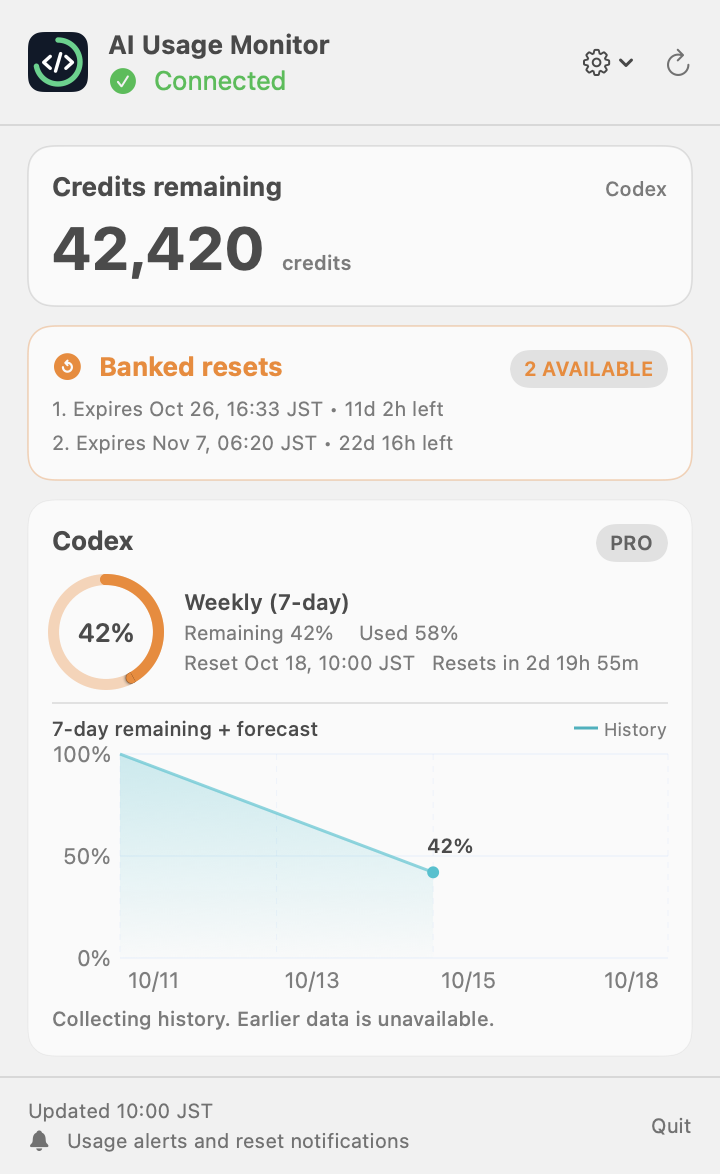
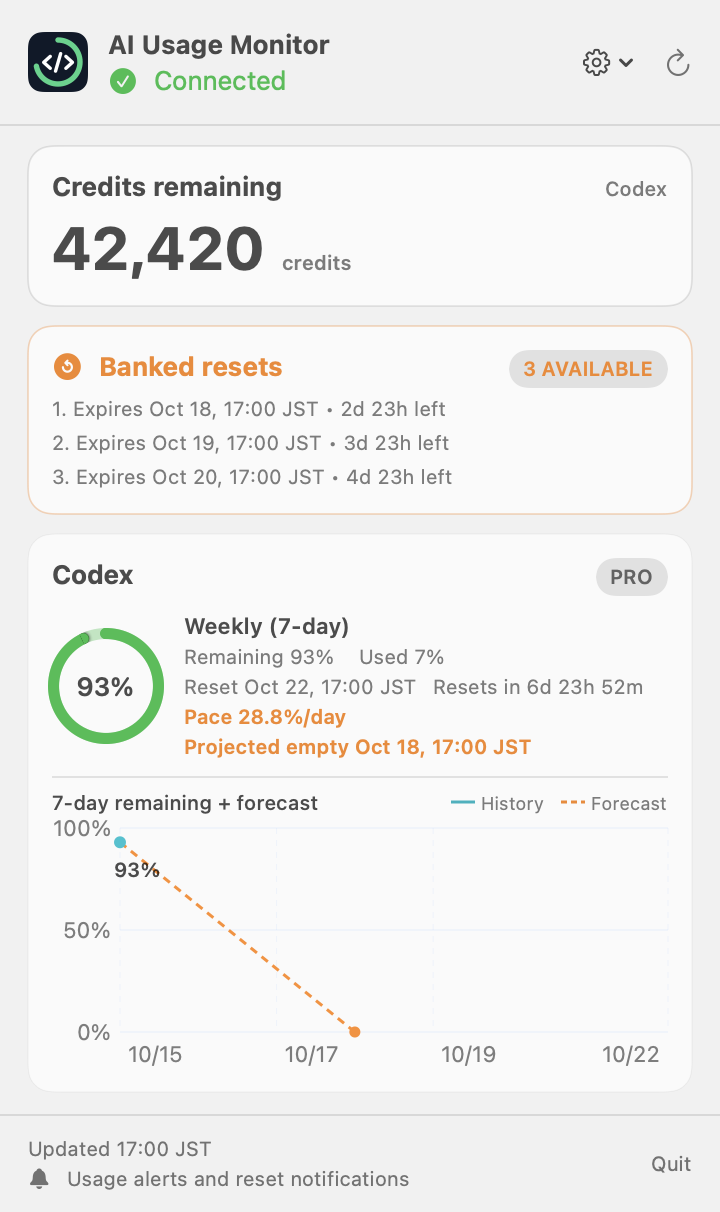
Restore banked resets and fit menu cards to available screen (#2)

diff --git a/tests/MenuPanelLayoutChecks.swift b/tests/MenuPanelLayoutChecks.swift
@@ -1,0 +1,135 @@
+import AppKit
+import Combine
+import CodexUsageCore
+import CodexUsageShared
+import SwiftUI
+
+@MainActor final class UsageViewModel: ObservableObject {
+    enum ConnectionState: Equatable { case idle, loading, connected, failed(String) }
+    @Published var snapshot: UsageSnapshot?
+    @Published var state: ConnectionState = .connected
+    @Published var notificationsEnabled: Bool? = true
+    @Published var paceEstimates: [String: UsagePaceEstimate] = [:]
+    @Published var weeklyHistories: [String: [UsageHistorySample]] = [:]
+    var isRefreshing: Bool { false }
+    func refresh() {}
+    func publishCurrentSnapshot() {}
+}
+enum UsagePaceTracker {
+    static func key(limitID: String, window: UsageWindow) -> String {
+        "\(limitID)|\(window.source)|\(window.windowDurationMins ?? -1)"
+    }
+}
+
+@main @MainActor struct MenuPanelLayoutChecks {
+    static func main() throws {
+        _ = NSApplication.shared
+        let output = CommandLine.arguments.count > 1
+            ? URL(fileURLWithPath: CommandLine.arguments[1], isDirectory: true) : nil
+        if let output { try FileManager.default.createDirectory(at: output, withIntermediateDirectories: true) }
+        for (name, scheme, appearance) in [("light", ColorScheme.light, NSAppearance.Name.aqua), ("dark", .dark, .darkAqua)] {
+            NSApp.appearance = NSAppearance(named: appearance)
+            let model = UsageViewModel()
+            update(model, count: 3, extra: false)
+            let host = NSHostingView(rootView: UsagePanel(model: model, maximumHeightOverride: 900)
+                .environment(\.colorScheme, scheme).environment(\.locale, Locale(identifier: "en_US")))
+            let window = NSWindow(contentRect: NSRect(x: 100, y: 100, width: 360, height: 900),
+                styleMask: [.borderless], backing: .buffered, defer: false)
+            window.isReleasedWhenClosed = false
+            window.appearance = NSAppearance(named: appearance)
+            window.contentView = host
+            host.frame = NSRect(x: 0, y: 0, width: 360, height: 900)
+            settle(host)
+            verify(host, window: window, fits: true, label: "three-expiries-credit-pace-forecast-\(name)")
+            if let output { try save(host, to: output.appendingPathComponent("menu-\(name).png")) }
+            update(model, count: 0, extra: false)
+            settle(host)
+            verify(host, window: window, fits: true, label: "zero-reset-shrink-\(name)")
+            update(model, count: 3, extra: false)
+            model.state = .failed("Synthetic connection failure")
+            settle(host)
+            verify(host, window: window, fits: true, label: "stale-grow-\(name)")
+            model.state = .connected
+            // A genuinely constrained display must retain the content and allow scrolling.
+            host.rootView = UsagePanel(model: model, maximumHeightOverride: 420)
+                .environment(\.colorScheme, scheme).environment(\.locale, Locale(identifier: "en_US"))
+            settle(host)
+            verify(host, window: window, fits: false, label: "short-display-\(name)")
+            // Returning to a large display must not keep an old height or scroll offset.
+            host.rootView = UsagePanel(model: model, maximumHeightOverride: 900)
+                .environment(\.colorScheme, scheme).environment(\.locale, Locale(identifier: "en_US"))
+            settle(host)
+            window.orderOut(nil)
+            update(model, count: 2, extra: false)
+            settle(host)
+            window.alphaValue = 0
+            window.orderFront(nil)
+            settle(host)
+            verify(host, window: window, fits: true, label: "hidden-grow-and-reopen-\(name)")
+            update(model, count: 3, extra: true)
+            settle(host)
+            verify(host, window: window, fits: false, label: "many-limits-overflow-\(name)")
+            window.close()
+        }
+        print("Native menu layout: 12 real-content fit/overflow/grow/shrink/reopen cases PASS")
+    }
+
+    static func update(_ model: UsageViewModel, count: Int, extra: Bool) {
+        let now = Date(timeIntervalSince1970: floor(Date().timeIntervalSince1970 / 3600) * 3600)
+        let reset = now.addingTimeInterval(7 * 86400)
+        let window = UsageWindow(source: "primary", label: "Weekly (7-day)", usedPercent: 7,
+            remainingPercent: 93, windowDurationMins: 10080, resetsAt: reset)
+        var limits = [UsageLimit(limitID: "codex", displayName: "Codex", planType: "pro",
+            rateLimitReachedType: nil, spendControlReached: false, windows: [window],
+            creditBalance: .amount(42420))]
+        if extra {
+            limits += (1...5).map { UsageLimit(limitID: "synthetic-\($0)", displayName: "Additional limit \($0)",
+                planType: "pro", rateLimitReachedType: nil, spendControlReached: false, windows: [window]) }
+        }
+        let credits = (0..<count).map { UsageResetCredit(grantedAt: now.addingTimeInterval(-86400),
+            expiresAt: now.addingTimeInterval(Double($0 + 3) * 86400), status: "available",
+            resetType: "codexRateLimits", title: nil, description: nil) }
+        model.snapshot = UsageSnapshot(limits: limits,
+            resetCredits: UsageResetCreditsSummary(availableCount: count, credits: credits), updatedAt: now)
+        let key = UsagePaceTracker.key(limitID: "codex", window: window)
+        model.paceEstimates = [key: UsagePaceEstimate(exhaustionDate: now.addingTimeInterval(3 * 86400),
+            usedPercentPerHour: 1.2, recentUsedPercentPerHour: 1.2, longTermUsedPercentPerHour: 1,
+            confidence: .medium)]
+        model.weeklyHistories = [key: [UsageHistorySample(observedAt: now.addingTimeInterval(-180),
+            remainingPercent: 94, resetsAt: reset), UsageHistorySample(observedAt: now,
+            remainingPercent: 93, resetsAt: reset)]]
+    }
+
+    static func settle<V: View>(_ host: NSHostingView<V>) {
+        for _ in 0..<16 {
+            host.layoutSubtreeIfNeeded()
+            RunLoop.main.run(until: Date().addingTimeInterval(0.025))
+        }
+    }
+    static func scrollViews(in view: NSView) -> [NSScrollView] {
+        (view as? NSScrollView).map { [$0] } ?? view.subviews.flatMap { scrollViews(in: $0) }
+    }
+    static func verify<V: View>(_ host: NSHostingView<V>, window: NSWindow, fits: Bool, label: String) {
+        let scrolls = scrollViews(in: host)
+        precondition(scrolls.count == 1, "\(label): expected one actual NSScrollView")
+        let scroll = scrolls[0]
+        let document = scroll.documentView!.frame.height
+        let viewport = scroll.contentView.bounds.height
+        precondition(abs(window.contentLayoutRect.height - host.bounds.height) <= 1,
+            "\(label): native window and SwiftUI panel disagree")
+        if fits {
+            precondition(document <= viewport + 1,
+                "\(label): unnecessary scrolling (document \(document), viewport \(viewport))")
+            precondition(abs(scroll.contentView.bounds.minY) <= 1,
+                "\(label): content remains scrolled after fitting")
+        } else {
+            precondition(document > viewport + 1, "\(label): tall content was clipped instead of scrollable")
+        }
+        print("\(label): \(fits ? "FIT" : "BOUNDED_SCROLL") window=\(host.bounds.height) document=\(document) viewport=\(viewport)")
+    }
+    static func save<V: View>(_ host: NSHostingView<V>, to url: URL) throws {
+        let bitmap = host.bitmapImageRepForCachingDisplay(in: host.bounds)!
+        host.cacheDisplay(in: host.bounds, to: bitmap)
+        try bitmap.representation(using: .png, properties: [:])!.write(to: url)
+    }
+}

diff --git a/Sources/CodexUsageMonitorApp/UsagePanel.swift b/Sources/CodexUsageMonitorApp/UsagePanel.swift
@@ -7,31 +7,48 @@ struct UsagePanel: View {
     @ObservedObject var model: UsageViewModel
     @AppStorage("appearanceMode") private var appearanceRawValue = AppearanceMode.system.rawValue
     @State private var measuredContentHeight: CGFloat = 0
+    @State private var measuredChromeHeight: CGFloat = 0
+    @State private var availableScreenHeight: CGFloat = 0
+    // A finite viewport override is used only by the native layout regression harness.
+    var maximumHeightOverride: CGFloat? = nil
 
     private let minimumPanelHeight: CGFloat = 220
     private let panelChromeHeight: CGFloat = 112
 
     private var maximumPanelHeight: CGFloat {
-        let availableHeight = NSScreen.main?.visibleFrame.height ?? 620
-        return min(680, max(420, availableHeight - 16))
+        if let maximumHeightOverride { return maximumHeightOverride }
+        let availableHeight = availableScreenHeight > 0
+            ? availableScreenHeight : (NSScreen.main?.visibleFrame.height ?? 620)
+        return max(minimumPanelHeight, floor(availableHeight - 16))
     }
 
     var body: some View {
         VStack(spacing: 0) {
             header
-            Divider()
+                .fixedSize(horizontal: false, vertical: true)
+                .background(chromeMeasurement)
+            Divider().frame(height: 1)
             content
-            Divider()
+            Divider().frame(height: 1)
             footer
+                .fixedSize(horizontal: false, vertical: true)
+                .background(chromeMeasurement)
         }
         .frame(width: 360, height: panelHeight)
         .background(.regularMaterial)
-        .background(PanelWindowSize(height: panelHeight))
+        .background(PanelWindowSize(height: panelHeight) { height in
+            guard abs(height - availableScreenHeight) > 0.5 else { return }
+            availableScreenHeight = height
+        })
         .background(PanelWindowAppearance(mode: appearanceMode))
         .preferredColorScheme(appearanceMode.colorScheme)
         .onPreferenceChange(ContentHeightPreferenceKey.self) { height in
             guard height > 0, abs(height - measuredContentHeight) > 0.5 else { return }
             measuredContentHeight = height
+        }
+        .onPreferenceChange(PanelChromeHeightPreferenceKey.self) { height in
+            guard height > 0, abs(height - measuredChromeHeight) > 0.5 else { return }
+            measuredChromeHeight = height
         }
         .onChange(of: appearanceRawValue) { _ in
             model.publishCurrentSnapshot()
@@ -95,7 +112,7 @@ struct UsagePanel: View {
     private var content: some View {
         if let snapshot = model.snapshot {
             ScrollView {
-                LazyVStack(spacing: 10) {
+                VStack(spacing: 10) {
                     CreditsBalanceCard(balance: snapshot.creditBalance, isStale: hasRefreshFailure)
                     ResetCreditsCard(summary: snapshot.resetCredits)
                     ForEach(Array(snapshot.limits.prefix(2))) { limit in
@@ -110,6 +127,7 @@ struct UsagePanel: View {
                         ErrorBanner(message: message)
                     }
                 }
+                .fixedSize(horizontal: false, vertical: true)
                 .padding(.horizontal, 14)
                 .padding(.vertical, 10)
                 .background {
@@ -121,6 +139,7 @@ struct UsagePanel: View {
                     }
                 }
             }
+            .scrollDisabled(measuredContentHeight > 0 && desiredPanelHeight <= maximumPanelHeight)
         } else if case .failed(let message) = model.state {
             VStack(spacing: 12) {
                 Image(systemName: "exclamationmark.triangle")
@@ -147,14 +166,20 @@ struct UsagePanel: View {
         return false
     }
 
+    private var chromeMeasurement: some View {
+        GeometryReader { proxy in
+            Color.clear.preference(key: PanelChromeHeightPreferenceKey.self, value: proxy.size.height)
+        }
+    }
+
+    private var desiredPanelHeight: CGFloat {
+        let contentHeight = measuredContentHeight > 0 ? measuredContentHeight : estimatedContentHeight
+        let chromeHeight = measuredChromeHeight > 0 ? measuredChromeHeight : panelChromeHeight
+        return ceil(max(minimumPanelHeight, chromeHeight + 2 + contentHeight))
+    }
+
     private var panelHeight: CGFloat {
-        let contentHeight = measuredContentHeight > 0
-            ? measuredContentHeight
-            : estimatedContentHeight
-        return min(
-            maximumPanelHeight,
-            max(minimumPanelHeight, panelChromeHeight + contentHeight)
-        )
+        min(maximumPanelHeight, desiredPanelHeight)
     }
 
     private var estimatedContentHeight: CGFloat {
@@ -256,19 +281,24 @@ private final class PanelAppearanceView: NSView {
 /// Keep the hosted window's content rect equal to the actual SwiftUI panel height.
 private struct PanelWindowSize: NSViewRepresentable {
     let height: CGFloat
+    var screenHeightChanged: ((CGFloat) -> Void)? = nil
 
     func makeNSView(context: Context) -> PanelSizingView {
         let view = PanelSizingView()
+        view.screenHeightChanged = screenHeightChanged
         view.requestedHeight = height
         return view
     }
 
     func updateNSView(_ view: PanelSizingView, context: Context) {
+        view.screenHeightChanged = screenHeightChanged
         view.requestedHeight = height
     }
 }
 
 private final class PanelSizingView: NSView {
+    var screenHeightChanged: ((CGFloat) -> Void)?
+    private var lastScreenHeight: CGFloat = 0
     var requestedHeight: CGFloat = 0 {
         didSet { scheduleResize() }
     }
@@ -283,6 +313,11 @@ private final class PanelSizingView: NSView {
         DispatchQueue.main.async { [weak self] in
             guard let self, let window = self.window,
                   self.requestedHeight > 0 else { return }
+            if let available = window.screen?.visibleFrame.height,
+               abs(available - self.lastScreenHeight) > 0.5 {
+                self.lastScreenHeight = available
+                self.screenHeightChanged?(available)
+            }
             let current = window.contentLayoutRect.height
             guard abs(current - self.requestedHeight) > 1 else { return }
             let top = window.frame.maxY
@@ -292,6 +327,14 @@ private final class PanelSizingView: NSView {
             frame.origin = NSPoint(x: left, y: top - frame.height)
             window.setFrame(frame, display: true)
         }
+    }
+}
+
+private struct PanelChromeHeightPreferenceKey: PreferenceKey {
+    static var defaultValue: CGFloat = 0
+
+    static func reduce(value: inout CGFloat, nextValue: () -> CGFloat) {
+        value += nextValue()
     }
 }
 

diff --git a/tests/CodexUsageCoreTests/UsageCreditBalanceTests.swift b/tests/CodexUsageCoreTests/UsageCreditBalanceTests.swift
@@ -96,6 +96,18 @@ final class UsageCreditBalanceTests: XCTestCase {
         XCTAssertNil(UsageSnapshot(limits: [], updatedAt: Date()).creditBalance)
     }
 
+    func testCreditBalanceAndBankedResetsCoexist() throws {
+        let snapshot = try UsageNormalizer.normalize([
+            "rateLimits": bucket(credits: ["hasCredits": true, "unlimited": false, "balance": "42420.5"]),
+            "rateLimitResetCredits": ["availableCount": 2, "credits": [
+                ["id": "synthetic-reset", "status": "available", "resetType": "codexRateLimits", "expiresAt": 1900000000]
+            ]]
+        ])
+        XCTAssertEqual(snapshot.creditBalance, .amount(Decimal(string: "42420.5")!))
+        XCTAssertEqual(snapshot.resetCredits?.availableCount, 2)
+        XCTAssertEqual(snapshot.resetCredits?.credits?.count, 1)
+    }
+
     private func normalize(_ credits: Any?) throws -> UsageSnapshot {
         try UsageNormalizer.normalize(["rateLimits": bucket(credits: credits)])
     }

diff --git a/scripts/verify-menu-panel-layout.py b/scripts/verify-menu-panel-layout.py
@@ -1,0 +1,30 @@
+from pathlib import Path
+import shutil, subprocess, sys, tempfile
+root = Path(__file__).resolve().parent.parent
+products = root / ".build/debug"
+if not products.is_dir():
+    raise SystemExit("Run swift build or swift test before the native layout regression")
+with tempfile.TemporaryDirectory(prefix="menu-layout-") as directory:
+    work = Path(directory)
+    panel = (root / "Sources/CodexUsageMonitorApp/UsagePanel.swift").read_text()
+    # Isolate preferences; the fixture has no account/notification implementation.
+    panel = panel.replace('@AppStorage("appearanceMode")', '@State')
+    (work / "UsagePanel.swift").write_text(panel)
+    app = work / "NativeLayout.app"
+    executable = app / "Contents/MacOS/NativeLayout"
+    executable.parent.mkdir(parents=True)
+    resources = app / "Contents/Resources"
+    resources.mkdir()
+    for image in (root / "Sources/CodexUsageShared/Resources").glob("*.png"):
+        shutil.copy2(image, resources / image.name)
+    for bundle in products.glob("*_CodexUsageShared.bundle"):
+        shutil.copytree(bundle, resources / bundle.name)
+    (app / "Contents/Info.plist").write_text('<?xml version="1.0"?><plist version="1.0"><dict><key>CFBundlePackageType</key><string>APPL</string><key>CFBundleExecutable</key><string>NativeLayout</string><key>CFBundleIdentifier</key><string>local.synthetic.menu-layout</string></dict></plist>')
+    command = ["swiftc", "-parse-as-library", "-I", str(products),
+        str(root / "tests/MenuPanelLayoutChecks.swift"), str(work / "UsagePanel.swift"),
+        str(root / "Sources/CodexUsageMonitorApp/CreditsBalanceCard.swift"),
+        str(root / "Sources/CodexUsageMonitorApp/WeeklyUsageChart.swift"),
+        str(products / "CodexUsageCore.o"), str(products / "CodexUsageShared.o"),
+        "-o", str(executable)]
+    subprocess.run(command, check=True)
+    subprocess.run([str(executable), *sys.argv[1:]], check=True, timeout=60)

diff --git a/README.md b/README.md
@@ -11,8 +11,7 @@ AI Usage Monitorは、ローカルにインストールされたCodexの`app-ser
 
 架空データによる表示例です。メニュー画面、円グラフウィジェットの小・中サイズ、
 7日間グラフウィジェットの小・中・大サイズをライト・ダーク両方で紹介します。
-メニューの残クレジットは42,420という架空の表示例です。
-バンクリセットは2件あり、メニューではそれぞれの期限を表示しています。
+メニューには架空の残クレジット42,420と、バンクリセット3件を表示しています。
 
 ライト表示：
 
@@ -118,6 +117,7 @@ URLで識別してください。
 ## 主な機能
 
 - メニューバー画面の上部に、Codexから返された残クレジットを表示します。
+- 画面内に収まる場合はカード全体を表示し、収まらない場合だけスクロールします。
 
 - ローカルのCodex `app-server`が返す、すべての利用枠を表示します。
 - 残量、使用率、リセット時刻、リセットまでのカウントダウンを表示します。

diff --git a/CHANGELOG.md b/CHANGELOG.md
@@ -5,6 +5,8 @@
 
 ## 2026-10-15
 
+- カード全体が収まる画面でもスクロールが必要になる問題を修正しました。画面の利用可能な高さと内容の実寸に合わせてウィンドウを調整します。
+
 - メニューバー画面の上部に残クレジットを追加しました。残高0・無制限・未取得を区別し、更新失敗時は前回値を保持します。更新時刻は画面下部にまとめています。
 
 ## 2026-09-29
